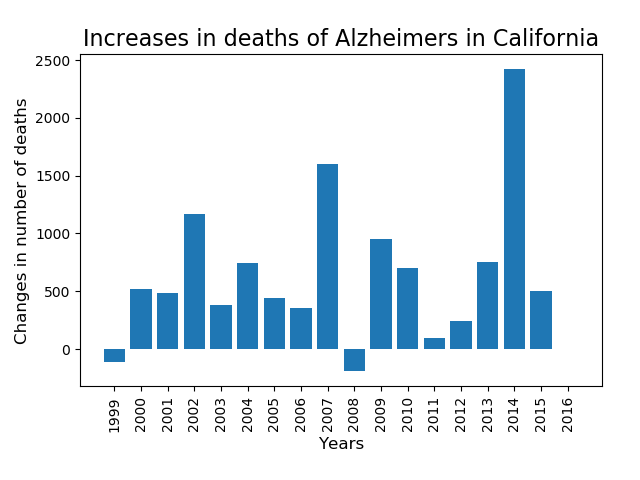
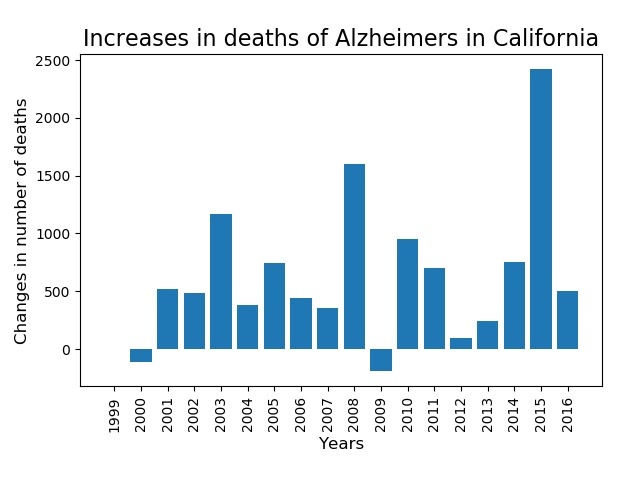
corrected a mistake i task_5 == a zero is now added in the beginning

Changed region(s): [[0.1562, 0.125, 0.9062, 0.7812]]

diff --git a/testFunctions.py b/testFunctions.py
@@ -49,16 +49,16 @@ def task_4(file_name):
 def task_5(file_name):
     useable_data = testLoadData.load_death_data(file_name, {"Alzheimer's disease": 2}, {"United States": 3})
     gross_3darr = np.array(useable_data).reshape(51, 18, 6)
-    gross_3darr = np.flip(gross_3darr, axis = 1)                    # flip the years, earliest are now first
-    death_counts = gross_3darr[:,:,4].astype(int)                   # number of deaths - 2d array of ints
+    gross_3darr = np.flip(gross_3darr, axis = 1)                            # flip the years, earliest are now first
+    death_counts = gross_3darr[:,:,4].astype(int)                           # number of deaths - 2d array of ints
     death_diff_yearly = np.diff(death_counts, n=1, axis=1)          
-    death_diff_period = np.sum(death_diff_yearly, axis=1)           # total difference in deaths across the era for each state
+    death_diff_period = np.sum(death_diff_yearly, axis=1)                   # total difference in deaths across the era for each state
     state_index = np.argmax(death_diff_period)
 
-    diff_yearly_adjusted = np.append(death_diff_yearly[state_index], 0)
-    year_list = gross_3darr[:,:,0][state_index].astype(int)
-    state_name = gross_3darr[:,:,3][state_index][0]
-
+    diff_yearly_adjusted = np.insert(death_diff_yearly[state_index], 0, 0)  # add a zero at the beginning, so that the death difference 
+    year_list = gross_3darr[:,:,0][state_index].astype(int)                 #       is a comparrison to the previous year (the first year is the beginning, 
+    state_name = gross_3darr[:,:,3][state_index][0]                         #       and thus there is no difference from the precious year).
+    
     testLoadData.plot_increse(diff_yearly_adjusted, year_list, state_name)
     return ("Task 5: state: " + gross_3darr[state_index,0,3] + 
             " alzheimers death count increase: " + str(death_diff_period[state_index])) 
